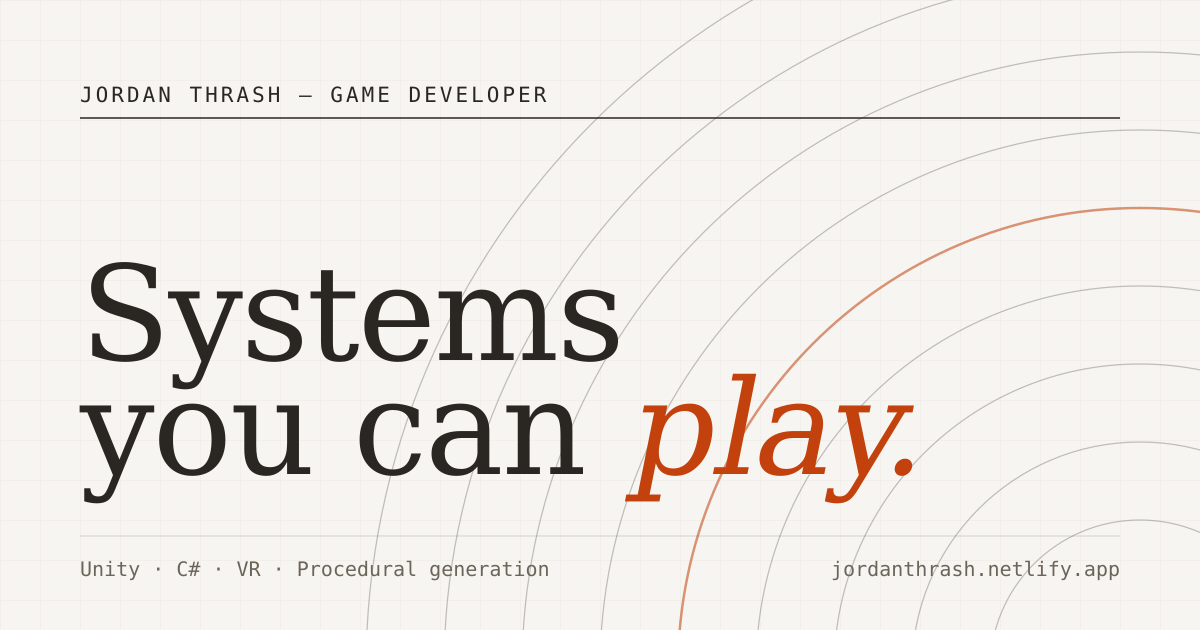
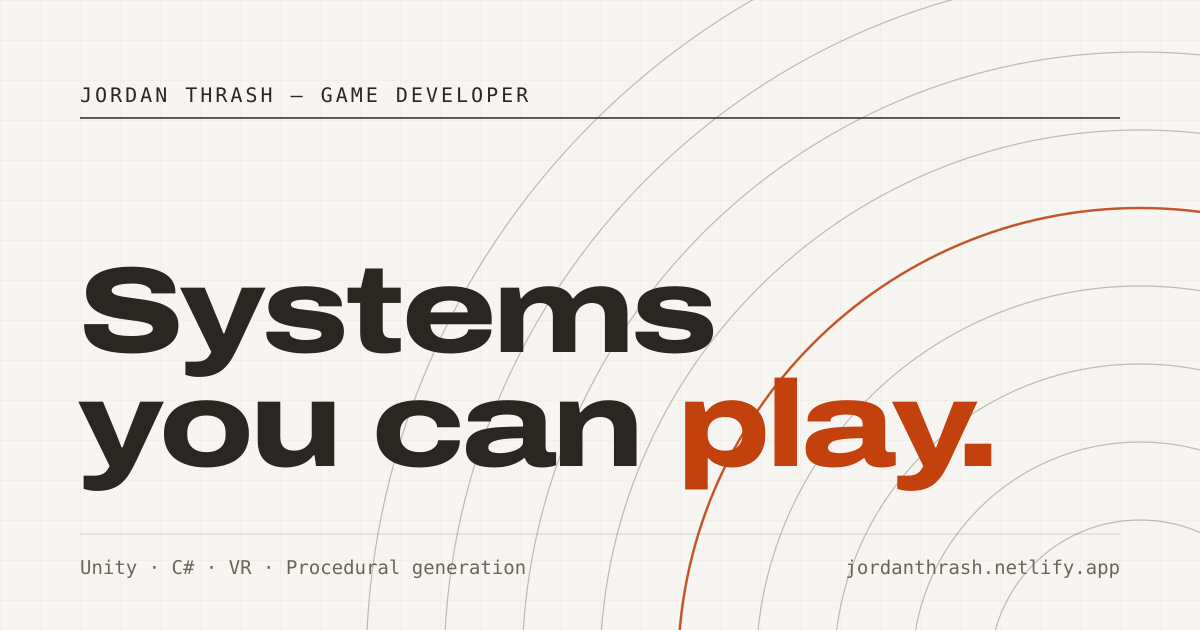
Rework typography onto a single variable family
Instrument Serif read fashion-magazine, which fought the subject matter.
Replaced the three-family stack with one typeface used in two registers.

- Dropped Instrument Serif and Inter. Everything except monospace
  metadata is now Archivo, loaded from the `standard` file that carries
  both the weight (100-900) and width (62-125) axes.
- Display type is the same family pushed out on those axes — weight 800,
  width 116%, tight negative tracking — so the separation between a
  statement and interface text comes from `wdth`, not from introducing a
  second voice. Added a `display-sm` step for rows and subheads.
- Used `font-stretch` rather than `font-variation-settings`, so the axis
  composes with the cascade instead of overriding it.
- Rescaled every display size for the wider face, and dropped the italic
  on the headline emphasis — colour alone reads better at that weight.
- OG card and favicon rebuilt in the real typeface; the OG script now
  warns when Archivo is not installed locally instead of silently
  falling back.
- Index lede no longer says "hover", which meant nothing on touch.

Claude-Session: https://claude.ai/code/session_01FqVhWkxSWnaqhkKCUJZE53

diff --git a/src/styles/global.css b/src/styles/global.css
@@ -1,7 +1,8 @@
 @import 'tailwindcss';
-@import '@fontsource/instrument-serif/400.css';
-@import '@fontsource/instrument-serif/400-italic.css';
-@import '@fontsource-variable/archivo';
+/* `standard` carries both axes — weight 100–900 and width 62–125 — in one
+   file, which is what lets the whole site run on a single family. */
+@import '@fontsource-variable/archivo/standard.css';
+@import '@fontsource-variable/archivo/standard-italic.css';
 @import '@fontsource-variable/jetbrains-mono';
 
 /* ---------------------------------------------------------------------------
@@ -46,7 +47,9 @@
   --color-rule: var(--rule);
   --color-accent: var(--accent);
 
-  --font-display: 'Instrument Serif', ui-serif, Georgia, serif;
+  /* One typeface, two registers. Display and body are the same family at
+     opposite ends of the width axis — the expressive work is done by `wdth`,
+     not by introducing a second voice. Mono is the only other family. */
   --font-sans: 'Archivo Variable', ui-sans-serif, system-ui, -apple-system, sans-serif;
   --font-mono: 'JetBrains Mono Variable', ui-monospace, 'SF Mono', Menlo, monospace;
 }
@@ -120,14 +123,27 @@
   color: var(--ink-faint);
 }
 
-/* Display type. Serif, large, tight — deliberately not the grotesque used
-   everywhere else, so statements read differently from interface text. */
+/* Display register: same family as body text, pushed wide and heavy on the
+   variable axes. Wide + bold + tight tracking is what gives statements their
+   weight; `font-stretch` maps to `wdth`, so it composes with the cascade
+   properly (unlike font-variation-settings, which does not). */
 @utility display {
-  font-family: var(--font-display);
-  font-weight: 400;
-  letter-spacing: -0.015em;
-  line-height: 0.98;
+  font-family: var(--font-sans);
+  font-weight: 800;
+  font-stretch: 116%;
+  letter-spacing: -0.035em;
+  line-height: 0.95;
   text-wrap: balance;
+}
+
+/* A step down from `display` — still wide and bold, but sized for rows and
+   subheads rather than statements. */
+@utility display-sm {
+  font-family: var(--font-sans);
+  font-weight: 700;
+  font-stretch: 108%;
+  letter-spacing: -0.022em;
+  line-height: 1.05;
 }
 
 @utility rule-above {
@@ -226,12 +242,12 @@
 }
 
 .prose h2 {
-  font-family: var(--font-display);
-  font-weight: 400;
+  font-weight: 700;
+  font-stretch: 108%;
   color: var(--ink);
-  font-size: 1.875rem;
+  font-size: 1.5rem;
   line-height: 1.15;
-  letter-spacing: -0.01em;
+  letter-spacing: -0.022em;
   margin-top: 2.5em;
   margin-bottom: -0.4em;
 }
@@ -316,9 +332,10 @@
 }
 
 .prose blockquote {
-  font-family: var(--font-display);
-  font-size: 1.5rem;
-  line-height: 1.3;
+  font-size: 1.375rem;
+  font-weight: 500;
+  line-height: 1.35;
+  letter-spacing: -0.015em;
   color: var(--ink);
   padding-left: 1.5rem;
   border-left: 1px solid var(--accent);

diff --git a/README.md b/README.md
@@ -145,10 +145,13 @@ that keep it coherent are:
 - **One theme** — warm paper, near-black ink, a single vermillion accent used
   sparingly. Colour is authored in OKLCH behind semantic variables in
   `src/styles/global.css`; changing `--accent` there re-skins the whole site.
-- **Two voices in the type** — Instrument Serif for statements (headline,
-  section titles, project names), Archivo for interface and body text,
-  JetBrains Mono for anything that reads as a specification. The contrast
-  between them is the site's signature; keep it.
+- **One typeface, two registers.** Everything except monospace metadata is
+  Archivo. Display type is the same family pushed out on the variable axes —
+  `font-weight: 800`, `font-stretch: 116%`, tight negative tracking. Body text
+  sits at normal width and weight. The width axis is what separates a statement
+  from interface text, so reach for `font-stretch` before reaching for another
+  font. JetBrains Mono is the only second family, reserved for things that read
+  as a specification: years, column headers, labels, section numbers.
 - **The index is the centrepiece.** Projects are a numbered table, not a grid.
   Hovering a row wipes it vermillion and floats a preview beside the cursor;
   on touch and narrow screens that becomes an inline thumbnail instead.
@@ -168,3 +171,8 @@ that keep it coherent are:
 | `npm run og` | Rebuilds `public/og.png`, the social share card |
 
 Re-run `npm run og` after changing your name, role or the accent colour.
+
+`npm run og` resolves fonts through the operating system rather than
+node_modules, so it needs [Archivo](https://fonts.google.com/specimen/Archivo)
+installed locally to match the site. Without it the card still renders, just in
+a fallback grotesque — the script warns you when that happens.
